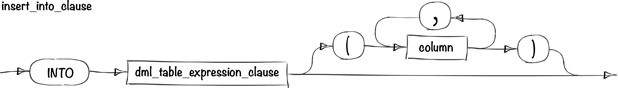
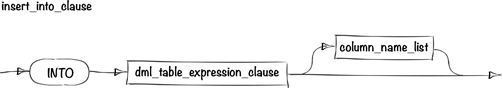
Korrekturen an der Syntaxhilfe

diff --git a/src/resources/syntax/update_set_clause.html b/src/resources/syntax/update_set_clause.html
@@ -37,10 +37,10 @@ POSSIBILITY OF SUCH DAMAGE.
             <code><kbd>SET</kbd><br />
                 { </code>column<code> <kbd>=</kbd> {
             </code>expr<code> | <kbd>(</kbd> </code><a href="subquery.html">subquery</a><code> <kbd>)</kbd> | <kbd>DEFAULT</kbd> }</code>
-            <code>| <kbd>(</kbd> </code>column<code> [ <kbd>,</kbd> </code>column<code> ]... <kbd>)</kbd> <kbd>=</kbd> <kbd>(</kbd> </code><a href="subquery.html">subquery</a><code> <kbd>)</kbd> }</code><br />
+            <code>| </code><a href="column_name_list.html">column_name_list</a><code> <kbd>=</kbd> <kbd>(</kbd> </code><a href="subquery.html">subquery</a><code> <kbd>)</kbd> }</code><br />
             <code>[ <kbd>,</kbd> { </code>column<code> <kbd>=</kbd> {
             </code>expr<code> | <kbd>(</kbd> </code><a href="subquery.html">subquery</a><code> <kbd>)</kbd> | <kbd>DEFAULT</kbd> }</code>
-            <code>| <kbd>(</kbd> </code>column<code> [ <kbd>,</kbd> </code>column<code> ]... <kbd>)</kbd> <kbd>=</kbd> <kbd>(</kbd> </code><a href="subquery.html">subquery</a><code> <kbd>)</kbd> }</code><br />
+            <code>| </code><a href="column_name_list.html">column_name_list</a><code> <kbd>=</kbd> <kbd>(</kbd> </code><a href="subquery.html">subquery</a><code> <kbd>)</kbd> }</code><br />
             <code> ]...</code>
         </div>
         <div class="diagram"><img src="diagrams/update_set_clause.png" /></div>

diff --git a/src/resources/syntax/object_privileges.html b/src/resources/syntax/object_privileges.html
@@ -35,8 +35,8 @@ POSSIBILITY OF SUCH DAMAGE.
         <div class="ebnf">
             object_privileges ::=<br />
             <code>
-                { </code>object_privilege<code> | <kbd>ALL</kbd> [ <kbd>PRIVILEGES</kbd> ] } [ <kbd>(</kbd> </code>column<code> [<kbd>,</kbd> </code>column<code>]... <kbd>)</kbd> ]<br />
-                [ <kbd>,</kbd> { </code>object_privilege<code> | <kbd>ALL</kbd> [ <kbd>PRIVILEGES</kbd> ] } [ <kbd>(</kbd> </code>column<code> [<kbd>,</kbd> </code>column<code>]... <kbd>)</kbd> ] ]...
+                { </code>object_privilege<code> | <kbd>ALL</kbd> [ <kbd>PRIVILEGES</kbd> ] } [ </code><a href="column_name_list.html">column_name_list</a><code> ]<br />
+                [ <kbd>,</kbd> { </code>object_privilege<code> | <kbd>ALL</kbd> [ <kbd>PRIVILEGES</kbd> ] } [ </code><a href="column_name_list.html">column_name_list</a><code> ] ]...
             </code>
         </div>
         <div class="diagram"><img src="diagrams/object_privileges.png" /></div>

diff --git a/src/resources/syntax/insert_into_clause.html b/src/resources/syntax/insert_into_clause.html
@@ -34,7 +34,7 @@ POSSIBILITY OF SUCH DAMAGE.
         <div class="nav"><a href="index.html"><img src="home.png" /></a></div>
         <div class="ebnf">
             insert_into_clause ::=<br />
-            <code><kbd>INTO</kbd> </code><a href="dml_table_expression_clause.html">dml_table_expression_clause</a><code> [ <kbd>(</kbd> </code>column<code> [<kbd>,</kbd> </code>column<code>]... <kbd>)</kbd> ]</code>
+            <code><kbd>INTO</kbd> </code><a href="dml_table_expression_clause.html">dml_table_expression_clause</a><code> [ </code><a href="column_name_list.html">column_name_list</a><code> ]</code>
         </div>
         <div class="diagram"><img src="diagrams/insert_into_clause.png" /></div>
     </body>
